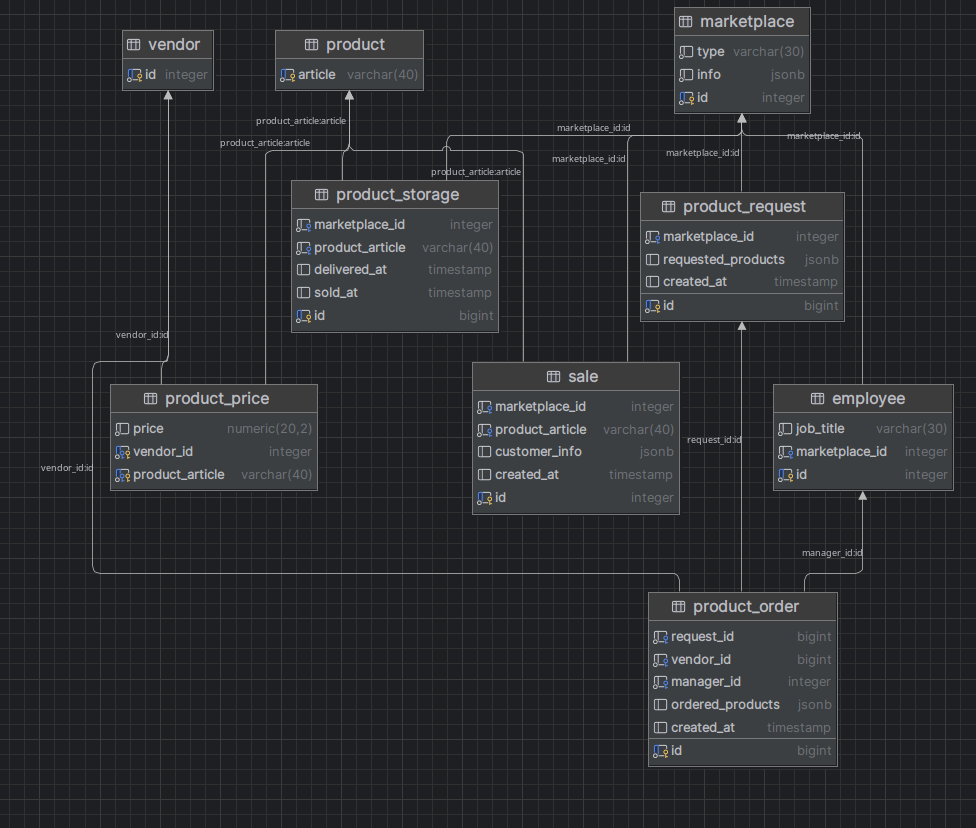
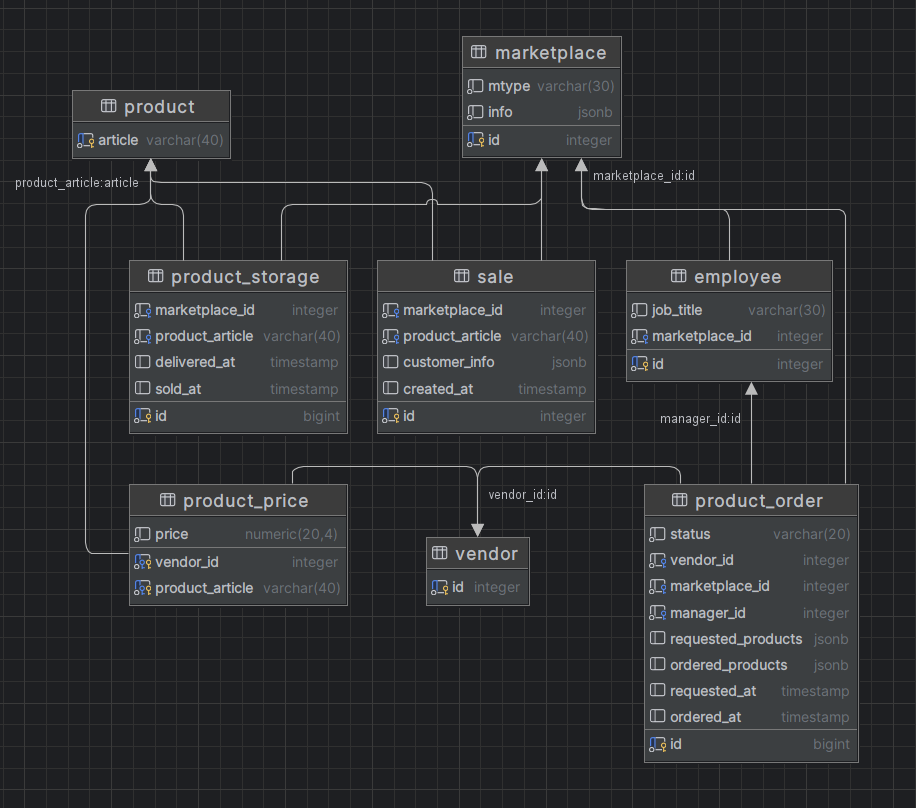
add report

diff --git a/REPORT.md b/REPORT.md
@@ -1,0 +1,94 @@
+## Общая схема связей
+
+![Diagram](database/assets/diagram_V0001.png)
+
+__Таблица marketplace__
+
+| Поле  | Описание                                             | 
+|-------|------------------------------------------------------| 
+| id    | Уникальный идентификатор (SERIAL)                    | 
+| mtype | Тип маркетплейса (VARCHAR(30), NOT NULL)             | 
+| info  | Дополнительная информация в формате JSONB (NOT NULL) |
+
+---
+
+__Таблица vendor__
+
+| Поле | Описание                          | 
+|------|-----------------------------------| 
+| id   | Уникальный идентификатор (SERIAL) |
+
+---
+
+__Таблица product__
+
+| Поле    | Описание                                    | 
+|---------|---------------------------------------------| 
+| article | Артикул продукта (VARCHAR(40), PRIMARY KEY) |
+
+---
+
+__Таблица employee__
+
+| Поле           | Описание                                       | 
+|----------------|------------------------------------------------| 
+| id             | Уникальный идентификатор (SERIAL)              | 
+| job_title      | Должность сотрудника (VARCHAR(30), NOT NULL)   | 
+| marketplace_id | Идентификатор маркетплейса (INTEGER, NOT NULL) |
+
+---
+
+__Таблица product_order__
+
+| Поле               | Описание                                                 | 
+|--------------------|----------------------------------------------------------| 
+| id                 | Уникальный идентификатор заказа (BIGSERIAL, PRIMARY KEY) | 
+| status             | Статус заказа (VARCHAR(20), NOT NULL)                    | 
+| vendor_id          | Идентификатор поставщика (INTEGER)                       | 
+| marketplace_id     | Идентификатор маркетплейса (INTEGER, NOT NULL)           | 
+| manager_id         | Идентификатор менеджера (INTEGER)                        | 
+| requested_products | Запрашиваемые продукты в формате JSONB                   | 
+| ordered_products   | Заказанные продукты в формате JSONB                      | 
+| requested_at       | Дата и время запроса (TIMESTAMP)                         | 
+| ordered_at         | Дата и время заказа (TIMESTAMP)                          |
+
+- __status__ принимает три значения:
+  - __REQUESTED__ - маркетплейс заказал товары
+  - __ORDERED__ - менеджер подтвердил заказ, уточнил количество товара и выбрал поставщика
+  - __DONE__ - заказ выполнен
+
+---
+
+__Таблица sale__
+
+| Поле            | Описание                                                 | 
+|-----------------|----------------------------------------------------------| 
+| id              | Уникальный идентификатор продажи (SERIAL, PRIMARY KEY)   | 
+| marketplace_id  | Идентификатор маркетплейса (INTEGER, NOT NULL)           | 
+| product_article | Артикул продукта (VARCHAR(40), NOT NULL)                 | 
+| customer_info   | Информация о клиенте в формате JSONB                     | 
+| created_at      | Дата и время создания продажи (TIMESTAMP, DEFAULT NOW()) |
+
+---
+
+__Таблица product_price__
+
+| Поле            | Описание                                     | 
+|-----------------|----------------------------------------------| 
+| vendor_id       | Идентификатор поставщика (INTEGER, NOT NULL) | 
+| product_article | Артикул продукта (VARCHAR(40), NOT NULL)     | 
+| price           | Цена продукта (NUMERIC(20, 4), NOT NULL)     |
+
+---
+
+__Таблица product_storage__
+
+| Поле            | Описание                                                   | 
+|-----------------|------------------------------------------------------------| 
+| id              | Уникальный идентификатор хранения (BIGSERIAL, PRIMARY KEY) | 
+| marketplace_id  | Идентификатор маркетплейса (INTEGER, NOT NULL)             | 
+| product_article | Артикул продукта (VARCHAR(40), NOT NULL)                   | 
+| delivered_at    | Дата и время доставки (TIMESTAMP)                          | 
+| sold_at         | Дата и время продажи (TIMESTAMP)                           |
+
+---

diff --git a/README.md b/README.md
@@ -2,6 +2,12 @@
 
 ## Тема: Информационная система торговой организации
 
+---
+
+## [Отчёт по сущностям Базы данных](REPORT.md)
+
+---
+
 ## Модуль database
 
 ### Структура модуля:
